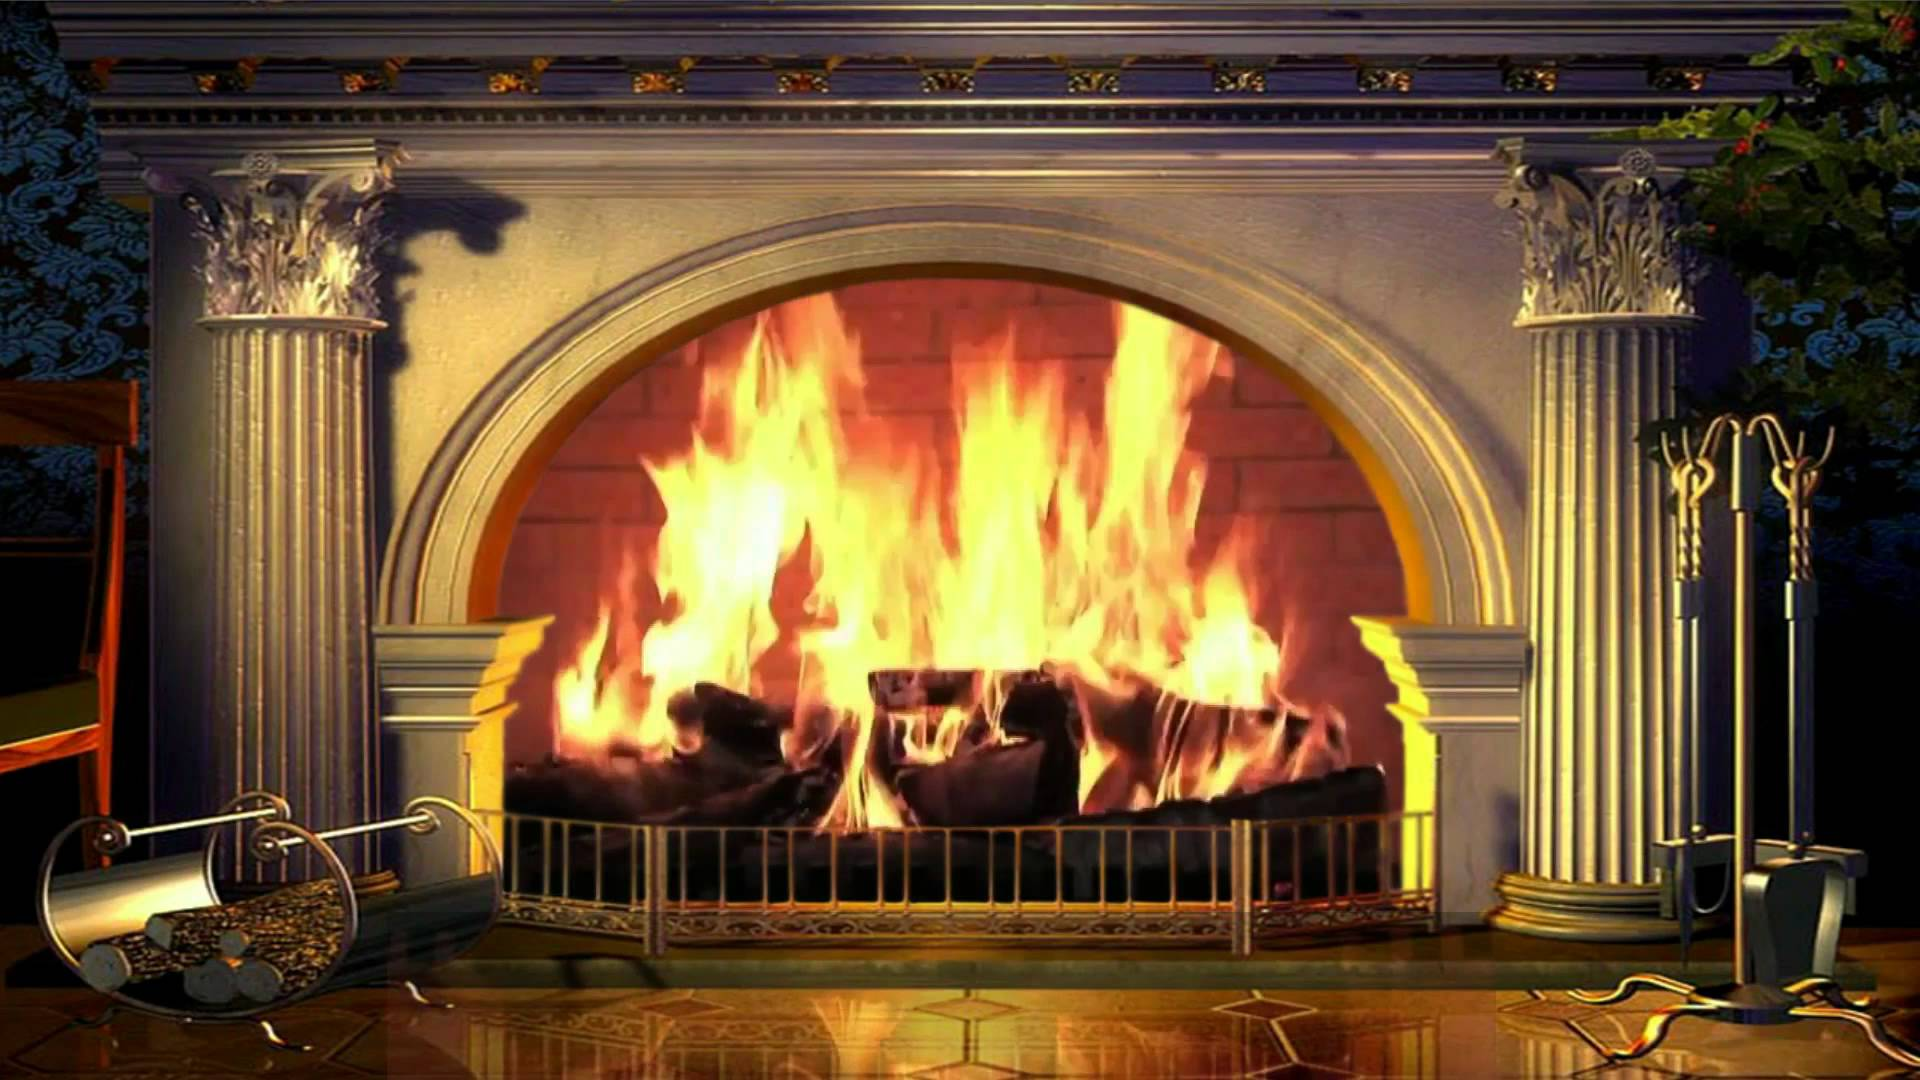
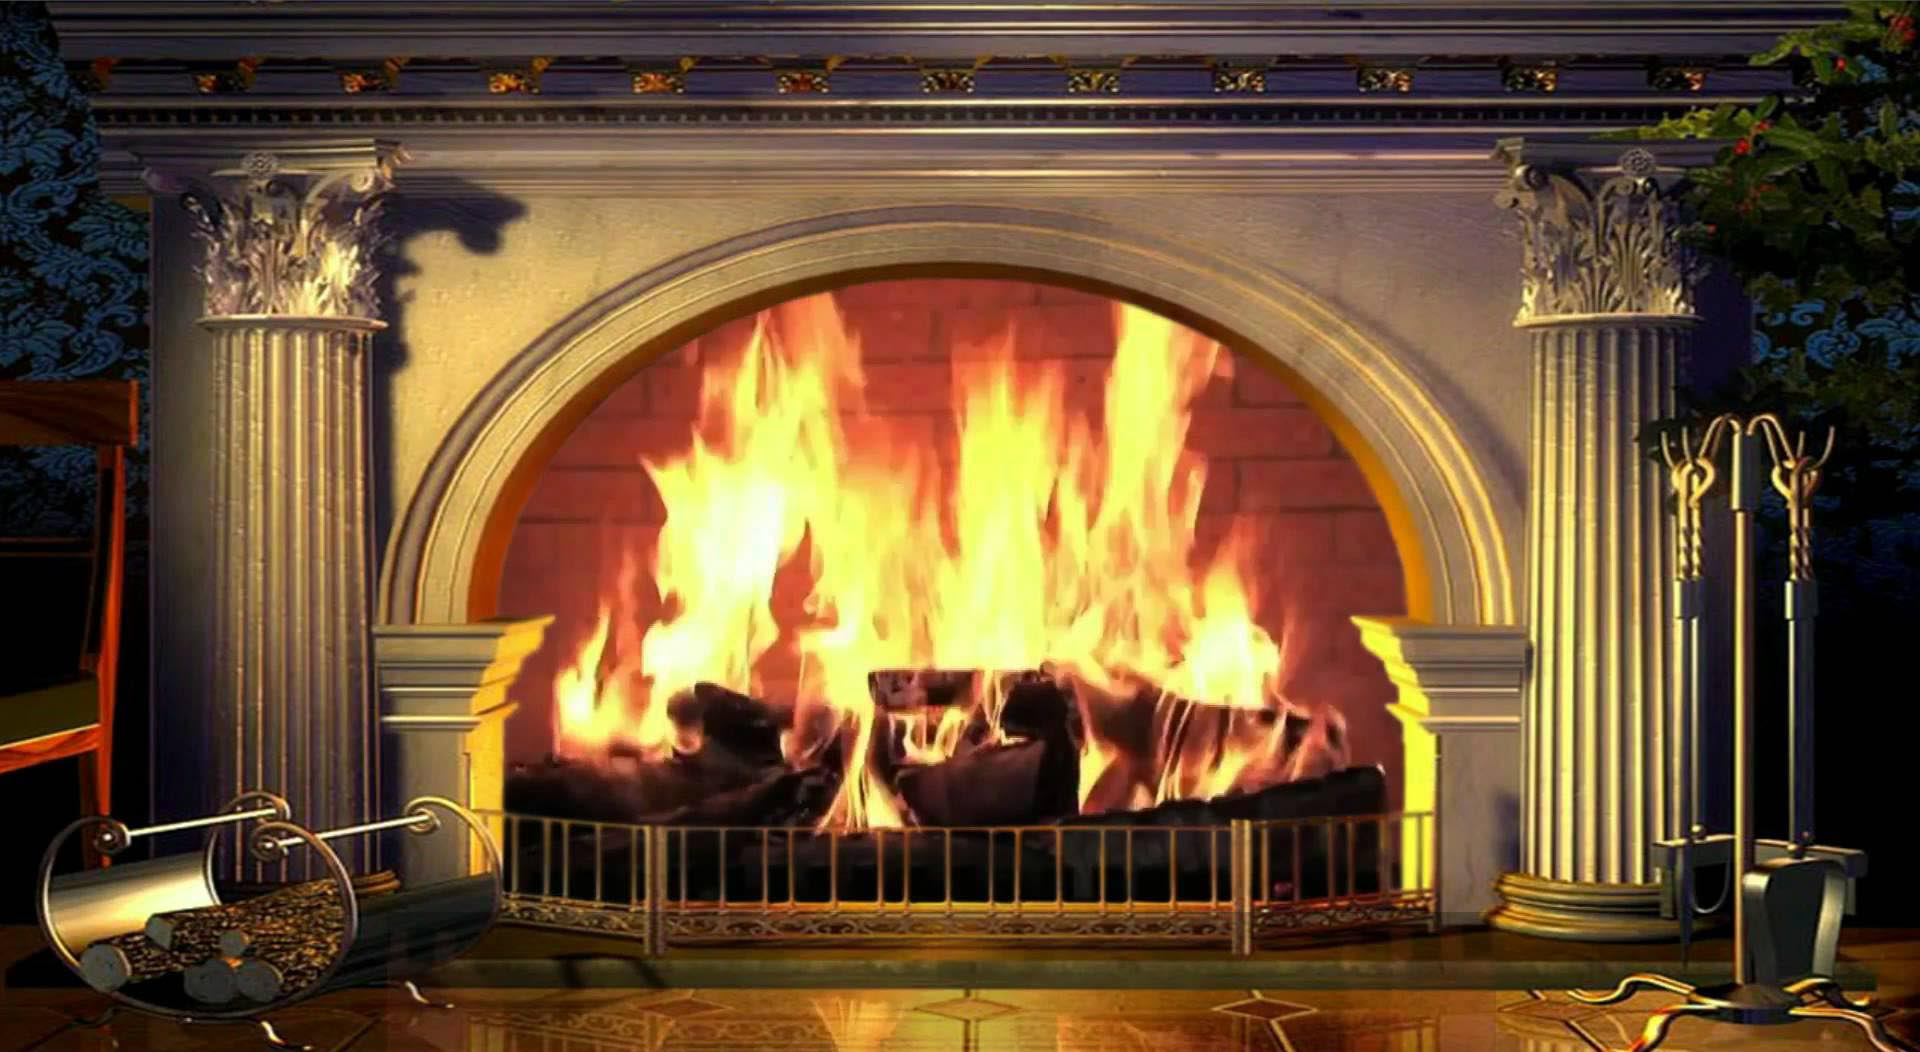
Added gradient to background image

diff --git a/assets/css/style.css b/assets/css/style.css
@@ -1,5 +1,8 @@
 body {
     font-family: 'Courier New', Courier, monospace;
+    background-image: url("../images/fireplace3.jpg");
+    background-size: cover;
+
 }
 
 /* header styles */
@@ -17,7 +20,7 @@ body {
 
 /* main parent grid styles */
 main {
-    background-image: url("../images/fireplace.jpg");
+    
     width: 100%;
     min-height: 700px;
     background-size: cover;
